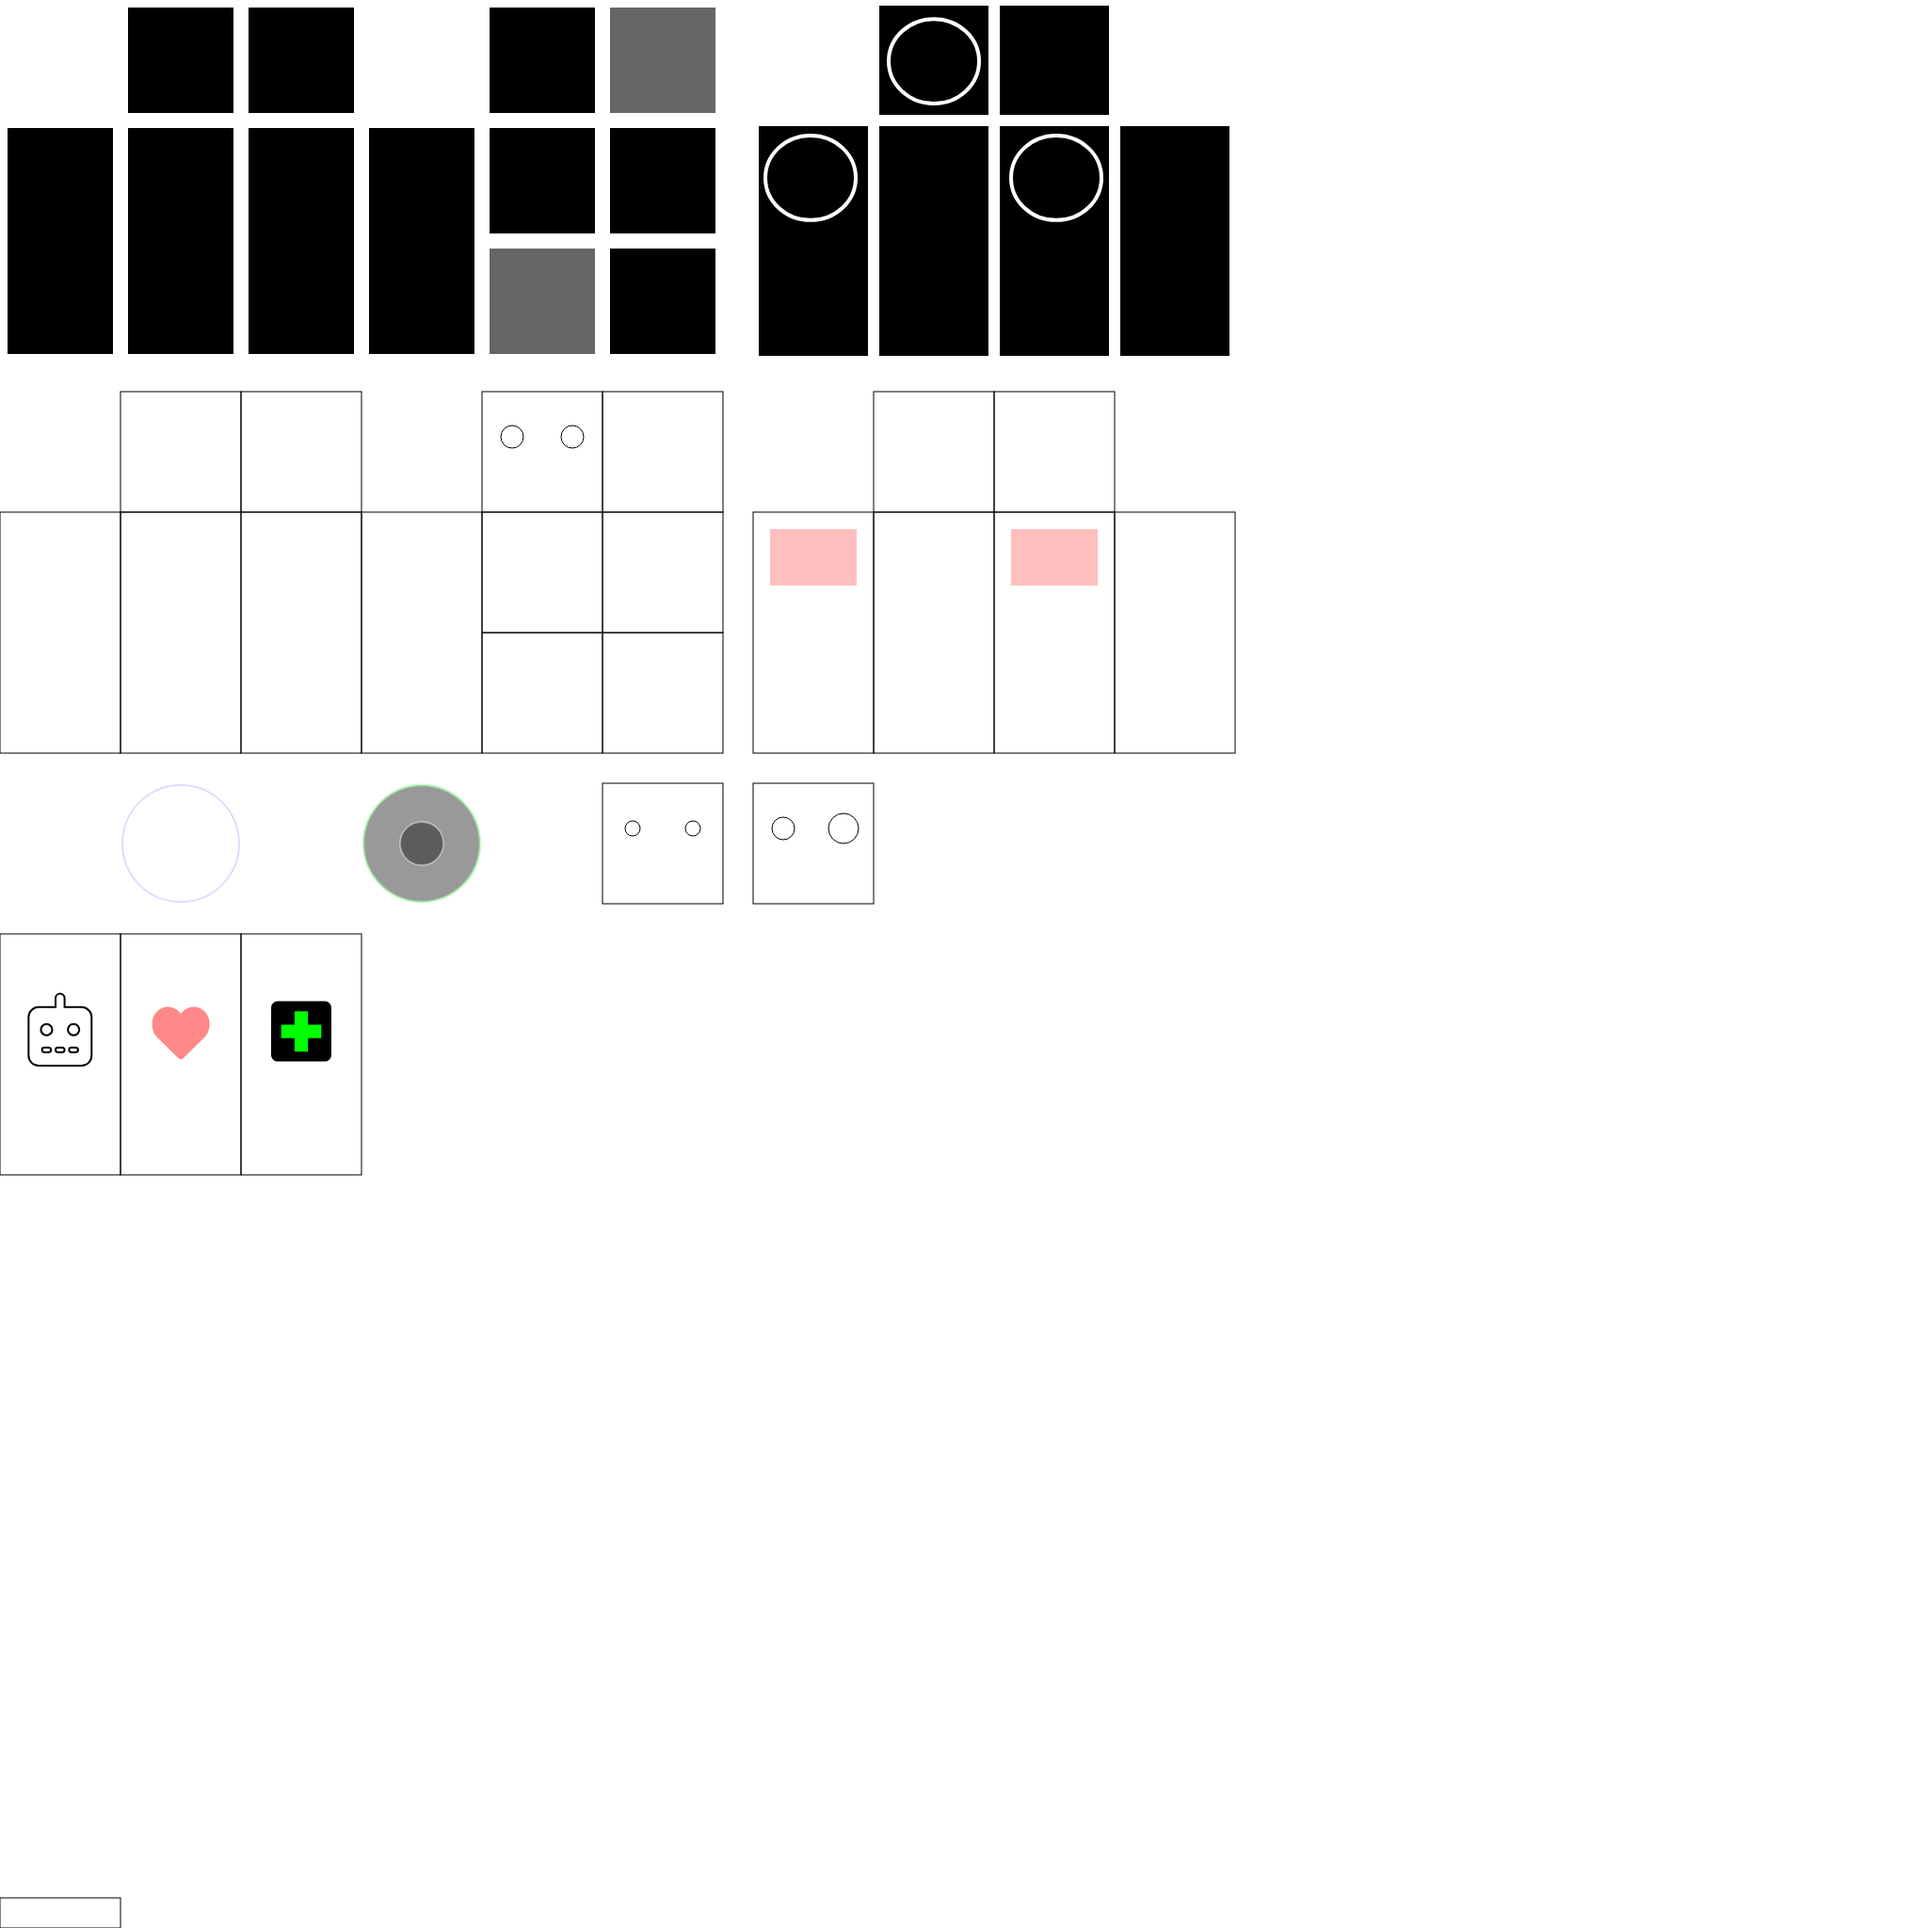
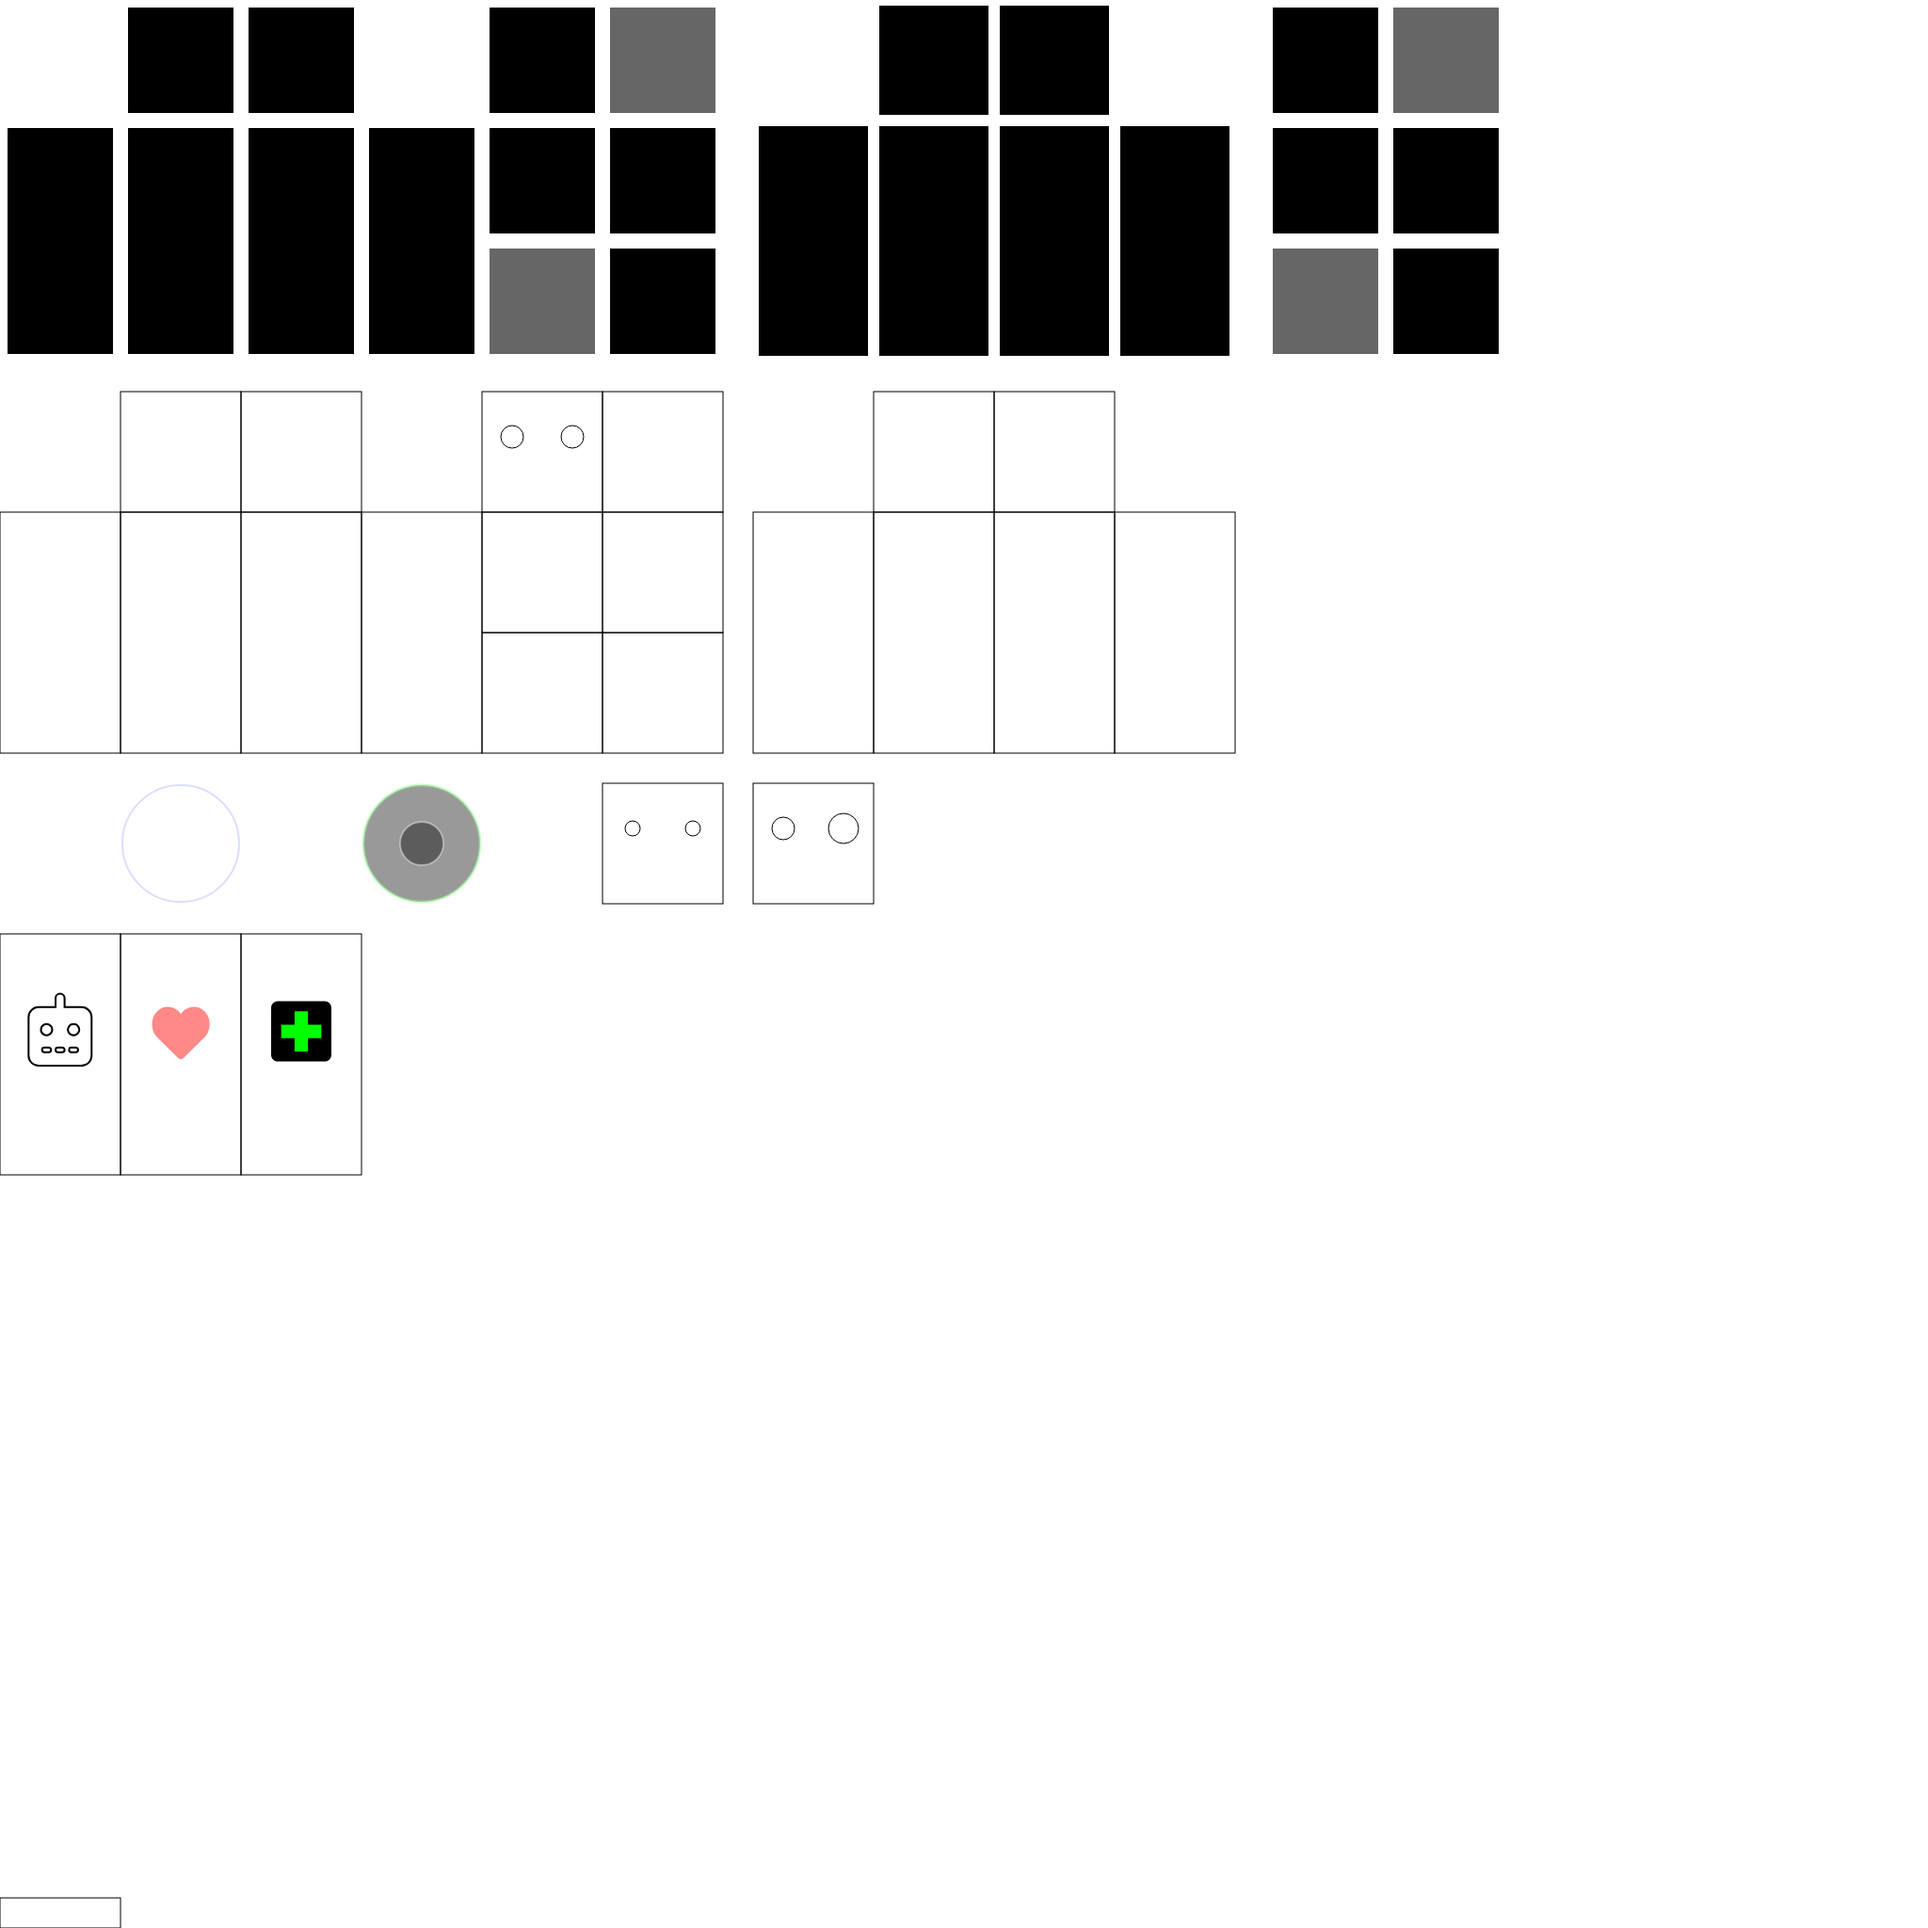
feat: temp apply test-{head,body,body-overlay}

Changed region(s): [[0.6562, 0.0, 0.7812, 0.1875], [0.5, 0.25, 0.5938, 0.3125], [0.375, 0.25, 0.4688, 0.3125]]

diff --git a/docs/TODO.md b/docs/TODO.md
@@ -129,7 +129,6 @@
     - this is fixed i.e. property of Euler rotation
 
 - 🚧 better skins based on minecraft skins
-  - ℹ use test-body, test-body-overlay
   - ✅ fix bug when do:
     ```sh
     w n.rob.skin | assign '{
@@ -151,6 +150,9 @@
   - ✅ more stable approach to skinning
     - ✅ report overlap of "x columns"
     - ✅ fallback to "test against every rectangle" approach
+
+  - 🚧 temp: profile-1
+    - apply test-head, test-body, test-body-overlay to rob
 
   - https://namemc.com/minecraft-skins/tag/soldier
     - https://namemc.com/skin/45461862ef51524e
